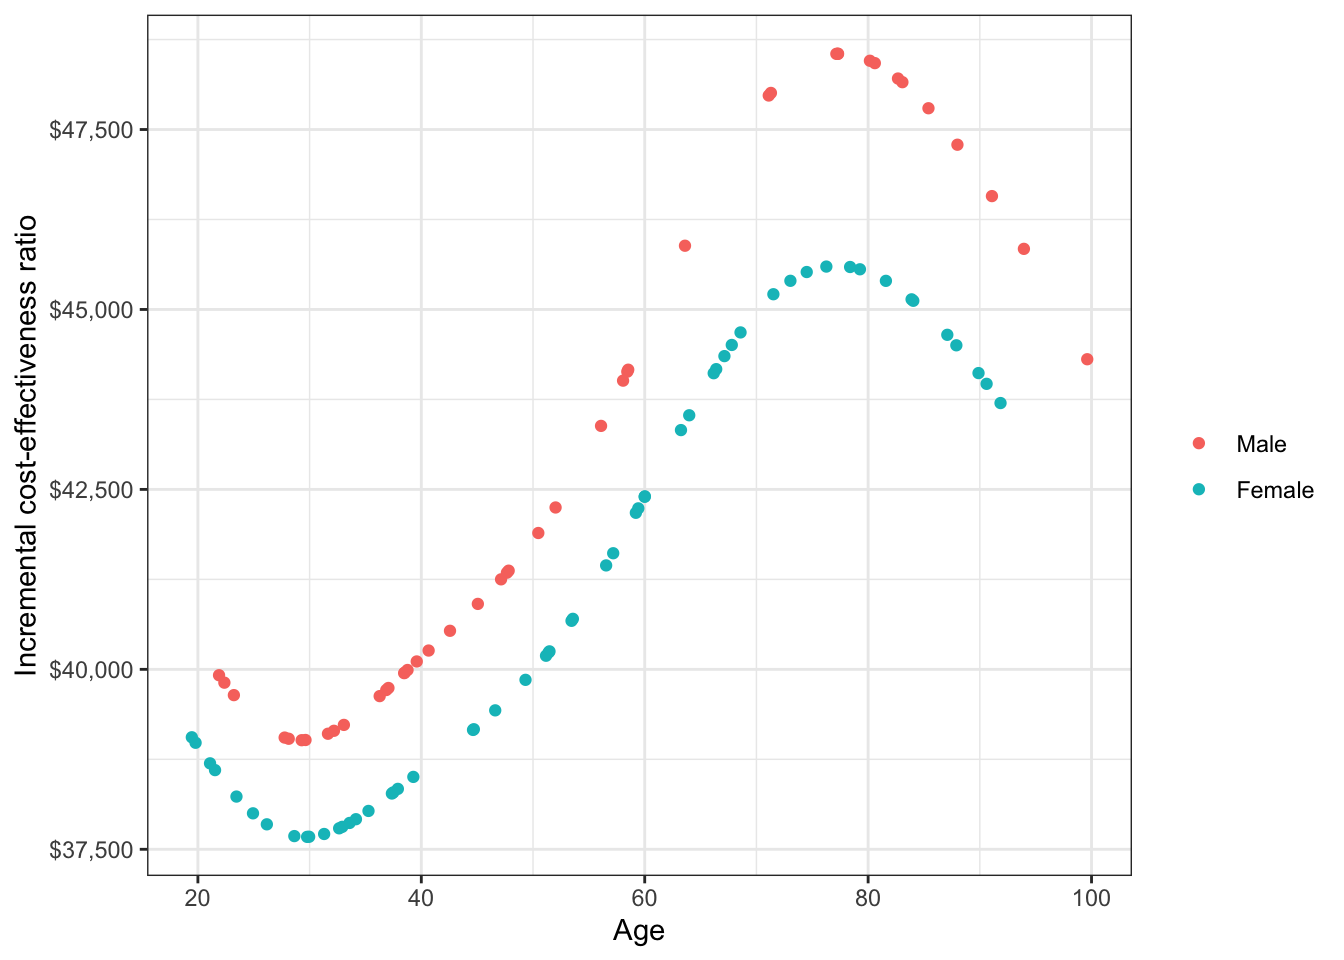
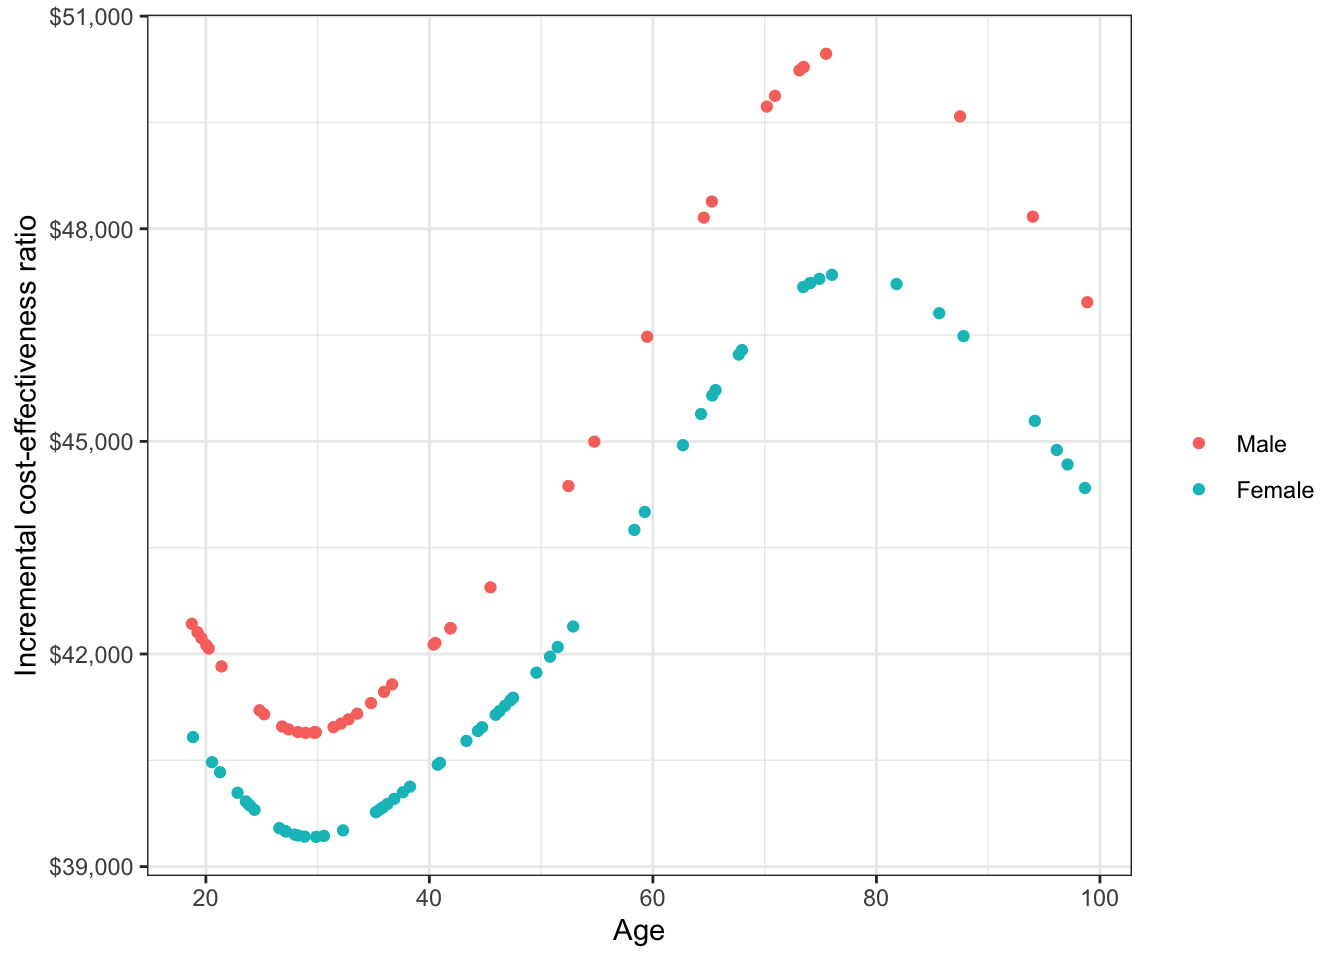
Fix to mlogit.Rmd which was using the wrong data source for medical costs

diff --git a/docs/dev/articles/mlogit.html b/docs/dev/articles/mlogit.html
@@ -169,12 +169,12 @@ Pr(y_{t+1} = s| y_t = r) = \frac{e^{x_r\beta_{rs}}}{\sum_{h=1}^{H}e^{x_r\beta_{r
 <span id="cb5-4"><a href="#cb5-4"></a>  , grp_id <span class="op">:</span><span class="er">=</span><span class="st"> </span><span class="dv">1</span><span class="op">:</span>n_patients]</span>
 <span id="cb5-5"><a href="#cb5-5"></a><span class="kw"><a href="https://www.rdocumentation.org/packages/utils/topics/head">head</a></span>(patients)</span></code></pre></div>
 <pre><code>##    patient_id      age female grp_id
-## 1:       4651 31.30055      1      1
-## 2:       3457 37.90062      1      2
-## 3:       2679 26.17257      1      3
-## 4:       4860 53.44865      1      4
-## 5:       2906 77.28124      0      5
-## 6:       3334 63.60523      0      6</code></pre>
+## 1:       9846 67.97109      1      1
+## 2:       9586 23.94411      1      2
+## 3:       4893 81.80064      1      3
+## 4:       1758 73.44460      1      4
+## 5:       5239 47.24237      1      5
+## 6:        514 44.33724      1      6</code></pre>
 <p>To perform the cost-effectiveness analysis, each patient is simulated twice, once with the reference treatment and once with the intervention. The non-death states use for simulating costs and quality-adjusted life-years (QALYs) are the healthy and sick states.</p>
 <div class="sourceCode" id="cb7"><pre class="sourceCode r"><code class="sourceCode r"><span id="cb7-1"><a href="#cb7-1"></a>hesim_dat &lt;-<span class="st"> </span><span class="kw"><a href="../reference/hesim_data.html">hesim_data</a></span>(</span>
 <span id="cb7-2"><a href="#cb7-2"></a>  <span class="dt">patients =</span> patients,</span>
@@ -222,7 +222,7 @@ Pr(y_{t+1} = s| y_t = r) = \frac{e^{x_r\beta_{rs}}}{\sum_{h=1}^{H}e^{x_r\beta_{r
 <div class="sourceCode" id="cb12"><pre class="sourceCode r"><code class="sourceCode r"><span id="cb12-1"><a href="#cb12-1"></a>drugcost_tbl &lt;-<span class="st"> </span><span class="kw"><a href="../reference/stateval_tbl.html">stateval_tbl</a></span>(multinom3_exdata<span class="op">$</span>costs<span class="op">$</span>drugs,</span>
 <span id="cb12-2"><a href="#cb12-2"></a>                            <span class="dt">dist =</span> <span class="st">"fixed"</span>,</span>
 <span id="cb12-3"><a href="#cb12-3"></a>                            <span class="dt">hesim_data =</span> hesim_dat) </span>
-<span id="cb12-4"><a href="#cb12-4"></a>medcost_tbl &lt;-<span class="st"> </span><span class="kw"><a href="../reference/stateval_tbl.html">stateval_tbl</a></span>(ctstm3_exdata<span class="op">$</span>costs<span class="op">$</span>medical,</span>
+<span id="cb12-4"><a href="#cb12-4"></a>medcost_tbl &lt;-<span class="st"> </span><span class="kw"><a href="../reference/stateval_tbl.html">stateval_tbl</a></span>(multinom3_exdata<span class="op">$</span>costs<span class="op">$</span>medical,</span>
 <span id="cb12-5"><a href="#cb12-5"></a>                            <span class="dt">dist =</span> <span class="st">"gamma"</span>,</span>
 <span id="cb12-6"><a href="#cb12-6"></a>                            <span class="dt">hesim_data =</span> hesim_dat)  </span></code></pre></div>
 </div>
